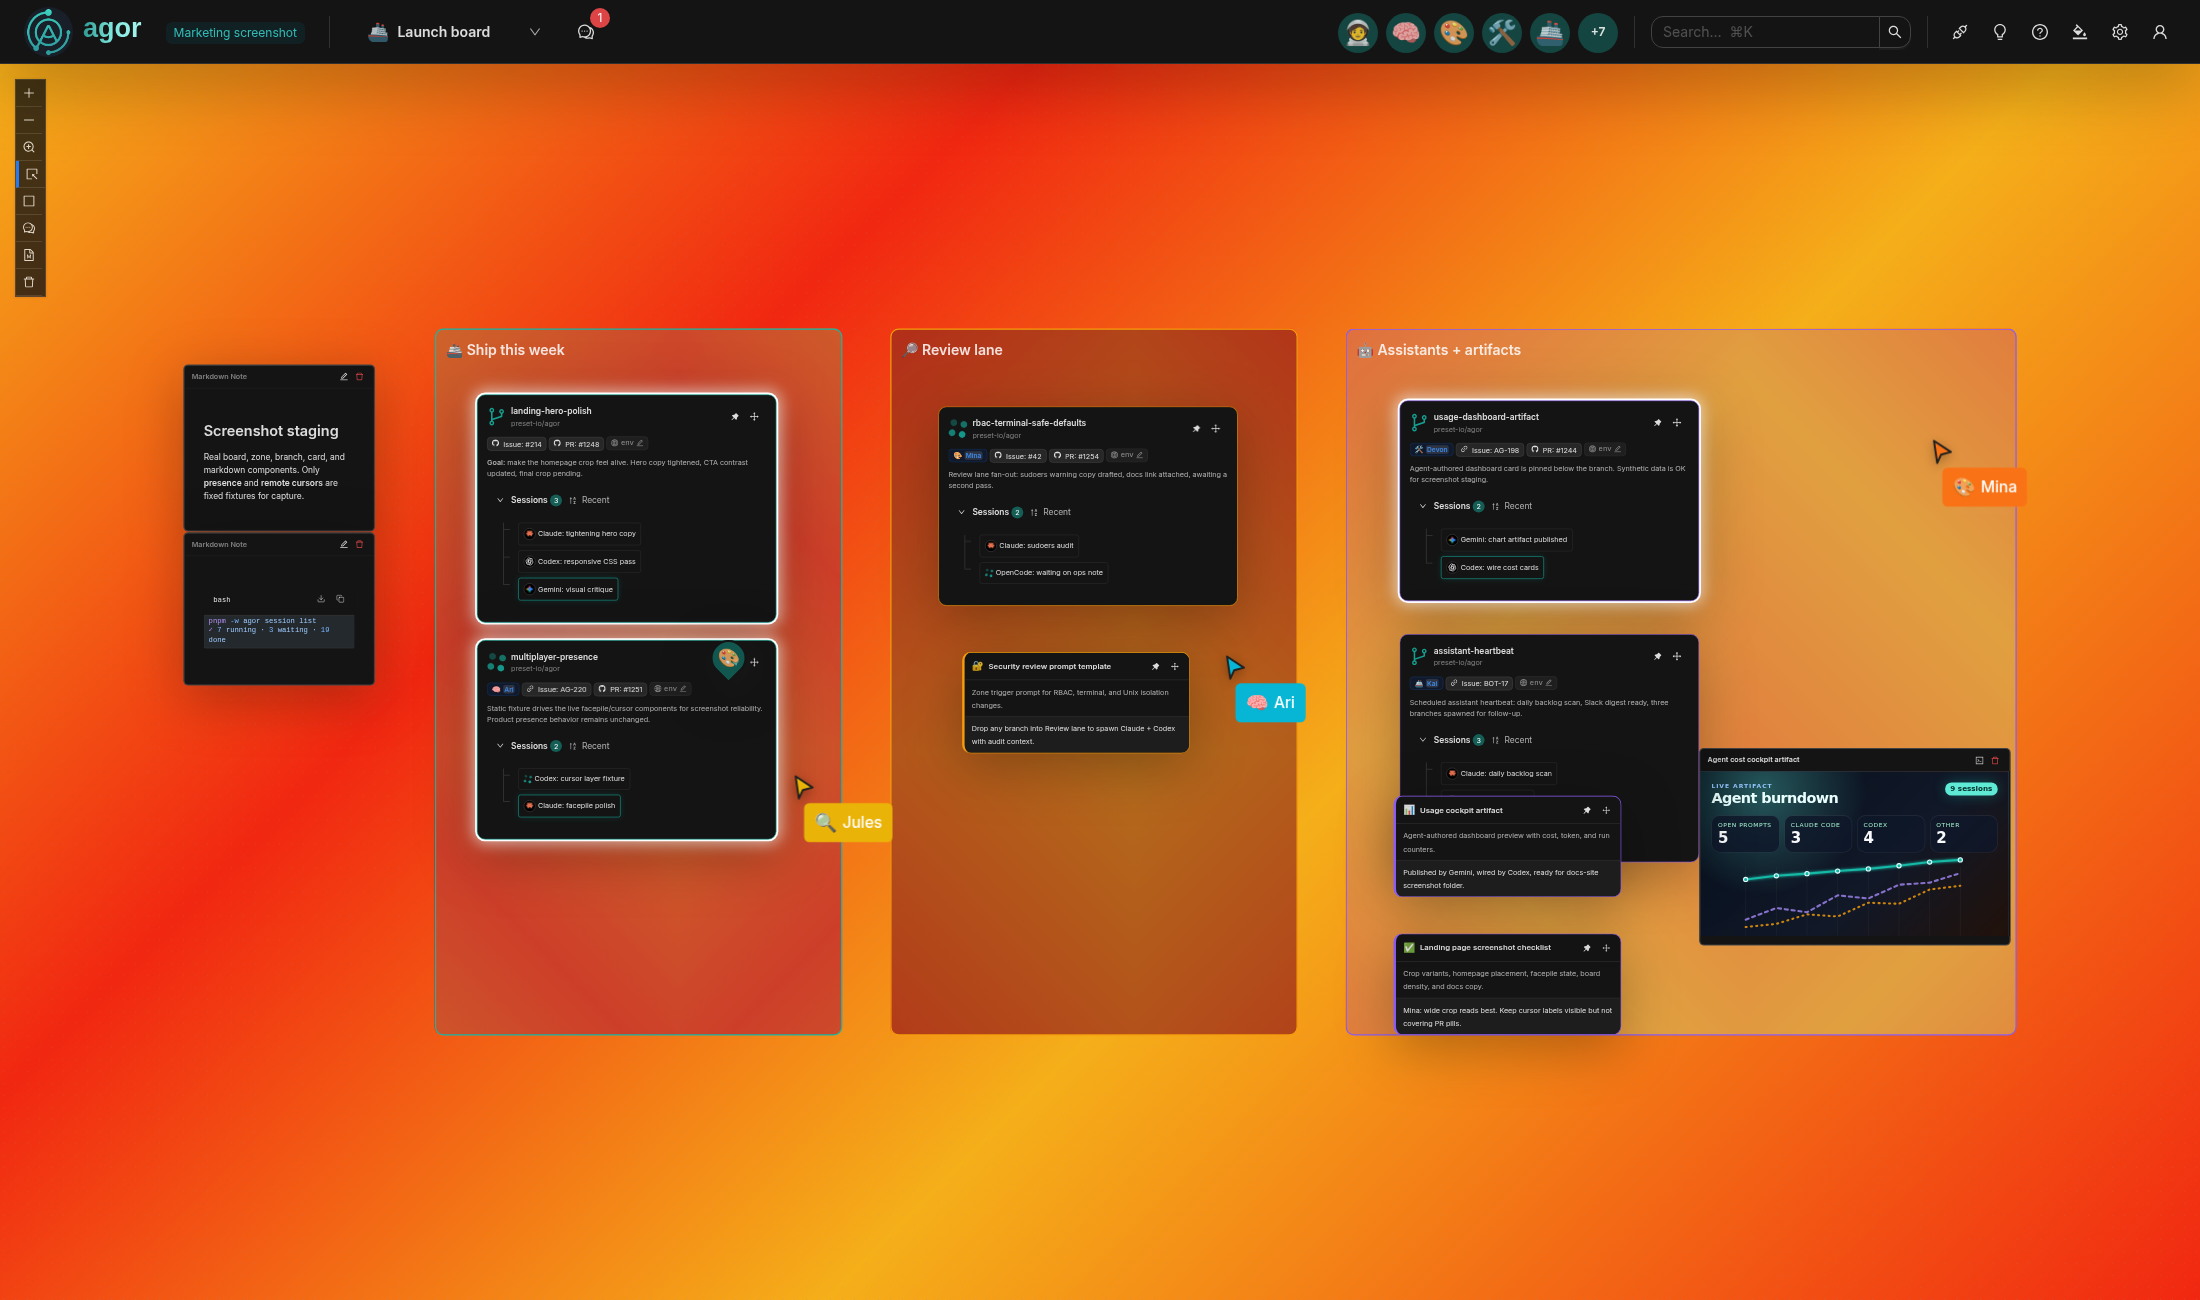
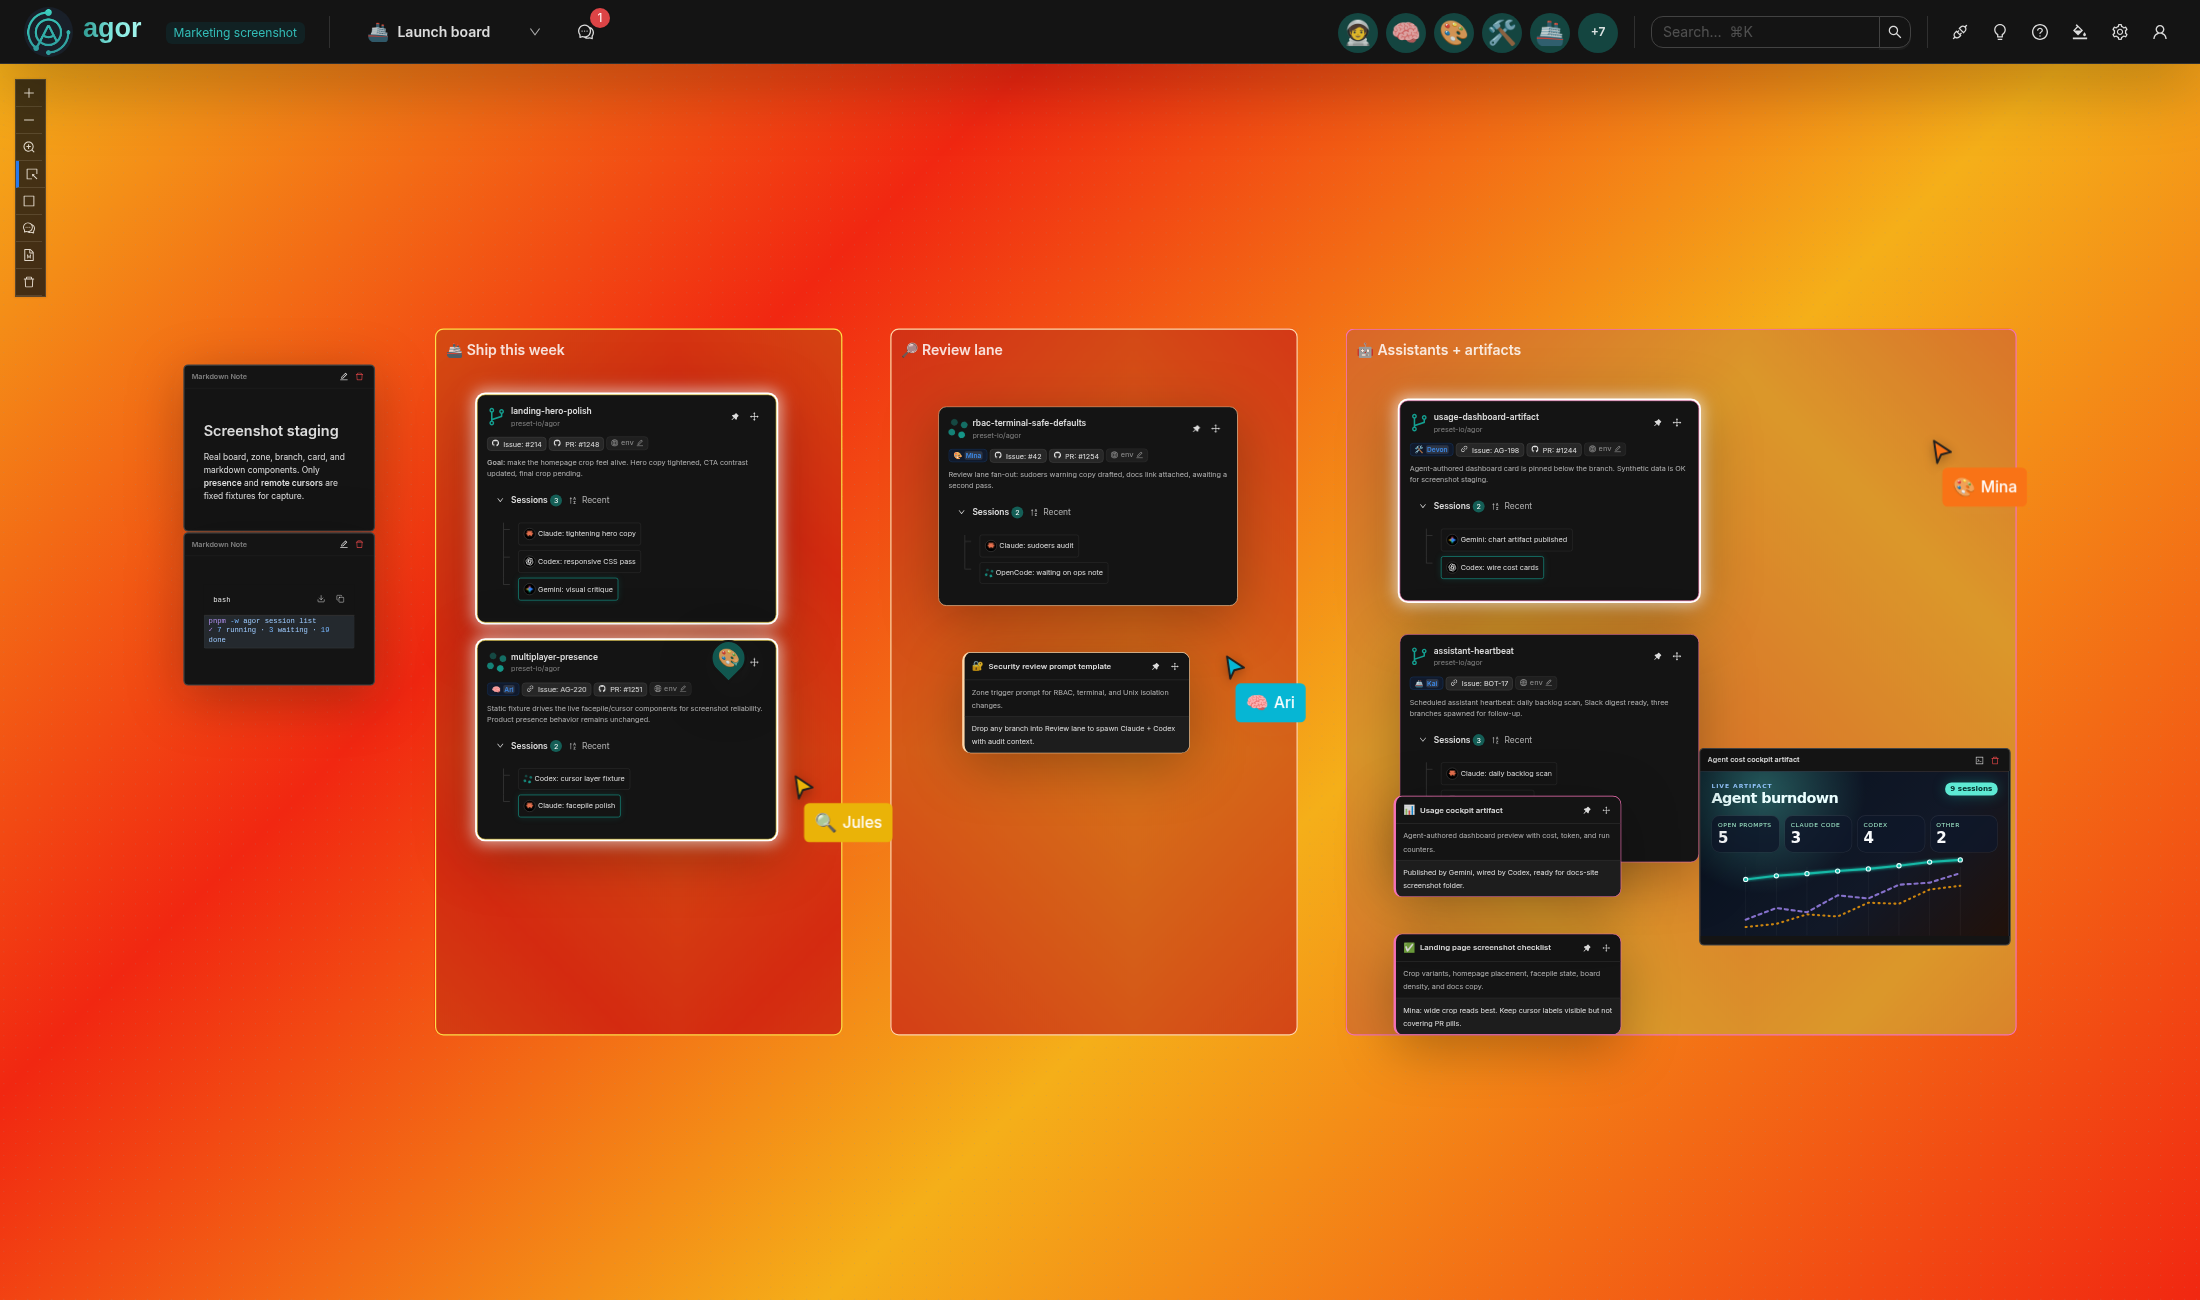
Tune marketing board zone palette

Changed region(s): [[0.1855, 0.2462, 0.6182, 0.8], [0.1855, 0.4615, 0.2164, 0.5231]]

diff --git a/apps/agor-ui/src/pages/MarketingScreenshotPage.tsx b/apps/agor-ui/src/pages/MarketingScreenshotPage.tsx
@@ -63,8 +63,8 @@ const board: Board = {
       width: 680,
       height: 1180,
       label: '🚢 Ship this week',
-      borderColor: '#14b8a6',
-      backgroundColor: 'rgba(20,184,166,0.16)',
+      borderColor: '#fde047',
+      backgroundColor: 'rgba(120,53,15,0.24)',
       locked: true,
       trigger: {
         behavior: 'show_picker',
@@ -79,8 +79,8 @@ const board: Board = {
       width: 680,
       height: 1180,
       label: '🔎 Review lane',
-      borderColor: '#f59e0b',
-      backgroundColor: 'rgba(15,23,42,0.28)',
+      borderColor: '#fed7aa',
+      backgroundColor: 'rgba(127,29,29,0.26)',
       locked: true,
       trigger: {
         behavior: 'always_new',
@@ -95,8 +95,8 @@ const board: Board = {
       width: 1120,
       height: 1180,
       label: '🤖 Assistants + artifacts',
-      borderColor: '#8b5cf6',
-      backgroundColor: 'rgba(139,92,246,0.18)',
+      borderColor: '#f472b6',
+      backgroundColor: 'rgba(88,28,135,0.16)',
       locked: true,
       trigger: {
         behavior: 'show_picker',
